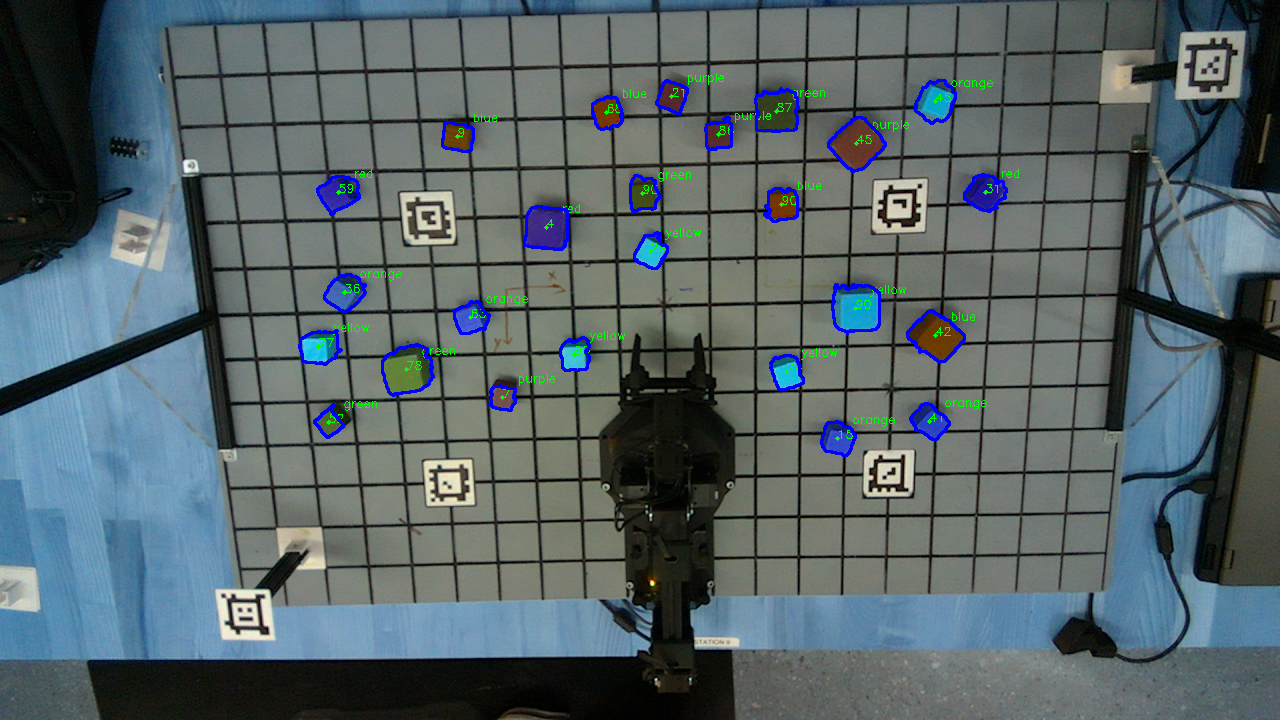
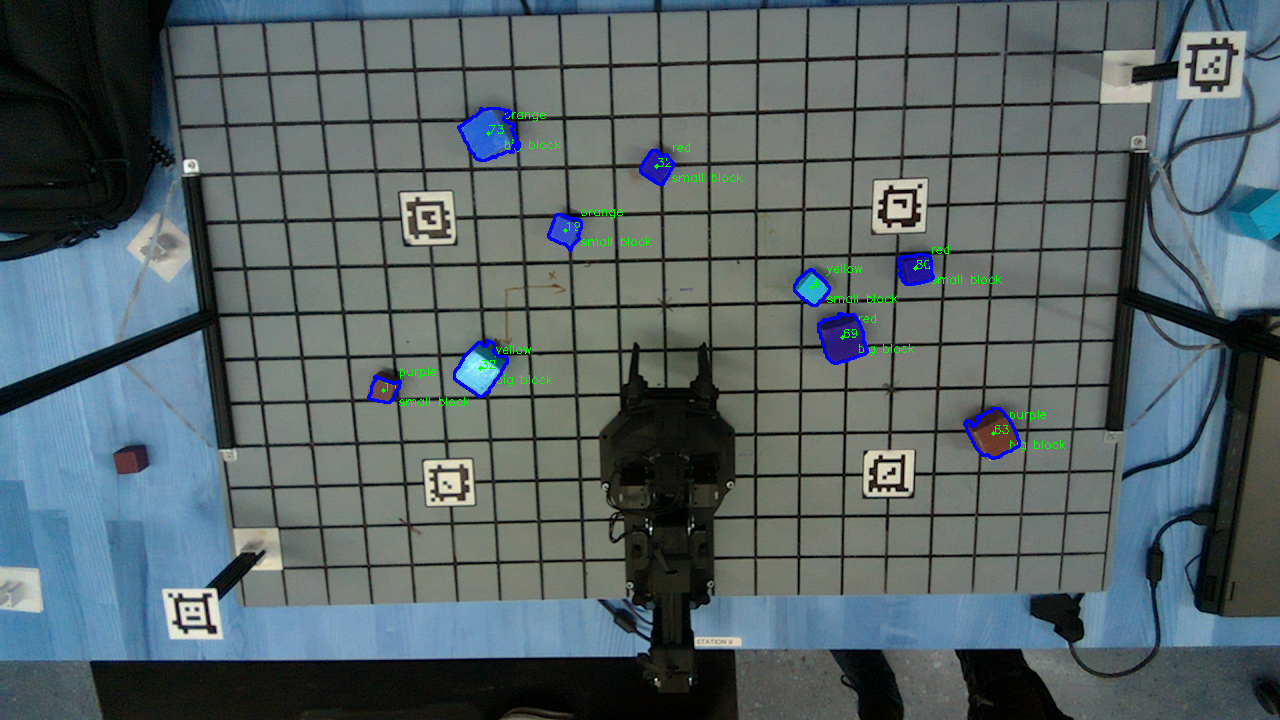
task 1 complete

diff --git a/src/state_machine.py b/src/state_machine.py
@@ -305,8 +305,8 @@ class StateMachine():
         @brief    calculate the moving time and accelerate time of motion 
         """
         displacement = np.array(target_joint) - self.rxarm.get_positions()
-        angular_v = np.ones(displacement.shape) * (np.pi / 4)
-        angular_v[0] = np.pi/5
+        angular_v = np.ones(displacement.shape) * (np.pi / 3)
+        angular_v[0] = np.pi/4
         angular_t = np.abs(displacement) / angular_v
         move_time = np.max(angular_t)
         if move_time < 0.4:
@@ -484,6 +484,7 @@ class StateMachine():
                     return True,joint_angles
                 if correction_counter > 5:
                     print("Pose Compute: Failure Can not even reach corrected Pose")
+                    print("Pose Compute: The point that cannot reach is: ", [x,y,z])
                     return False,[0,0,0,0,0]
     
     
@@ -587,7 +588,7 @@ class StateMachine():
             temp_joint = np.array(joint_angles1)
             last_effort = self.rxarm.get_efforts()       
           
-            for i in range(10):
+            for i in range(4):
                 displacement_unit = displacement_unit / 2
                 temp_joint = temp_joint + displacement_unit
                 move_time,ac_time = self.calMoveTime(temp_joint)
@@ -619,10 +620,10 @@ class StateMachine():
                                            blocking = True)
             print("Auto Pick: Reach Pos3")
             print("Auto Pick: Success")
-            time.sleep(0.5)
+            time.sleep(0.1)
         else:
             print("Auto Pick: Unreachable Position!")
-            time.sleep(0.5)
+            time.sleep(0.1)
 
 
 
@@ -701,11 +702,11 @@ class StateMachine():
                                            accel_time = ac_time,
                                            blocking = True)
             print("Auto Place: Reach Pos3")
-            time.sleep(0.5)
+            time.sleep(0.2)
             print("Auto Place: Success")
         else:
             print("Auto Place: Unreachable Position!")
-            time.sleep(0.5)
+            time.sleep(0.2)
 
     
     def kinematics_motion_test(self):
@@ -800,56 +801,11 @@ class StateMachine():
         self.next_state = "idle"
 
 
-    # # Event 1:Pick'n sort!
-    # def pick_n_sort(self):
-    #     self.current_state = "pick_n_sort"
-    #     self.next_state = "idle"
-    #     # Detect blocks in the plane
-    # self.camera.blocks = detectBlocksInRGBImage(self.camera.VideoFrame.copy(), self.camera.DepthFrameRaw,boundary=self.camera.boundary)
-
-    #     while self.camera.blocks == None:
-    #         print("There is no blocks in the workspace!!")
-    #         time.sleep(1)
-
-    #     # Initialize place positions - x coordinates
-    #     small_x , big_x = -150,150
-    #     self.initialize_rxarm()
-
-    #     for block in self.camera.blocks:
-    #         block_center, block_orientation = self.camera.transformFromImageToWorldFrame((block.center[1], block.center[0])),block.orientation 
-    #         # print(block_center,block.side)
-    #         if block_center[2] < 50: 
-    #             # Move small blocks in right plane to left plane
-    #             if block.side <= 25:
-    #                 if block_center[0] >= 0 or block_center[1] >= 0:
-    #                     print("=========== Small")
-    #                     print(block_center)
-    #                     print("===========")
-    #                     self.auto_pick(target_pos=block_center,block_ori = block_orientation)
-    #                     time.sleep(1)
-    #                     self.auto_place(target_pos=[small_x,-100,0],target_orientation = 0)
-    #                     small_x -= 60
-    #             # Move big blocks in left plane to right plane
-    #             elif block.side >= 35:
-    #                 if block_center[0] <= 0 or block_center[1] >= 0:
-    #                     print("+++++++++++ Big")
-    #                     print(block_center)
-    #                     print("+++++++++++")
-    #                     self.auto_pick(target_pos=block_center,block_ori = block_orientation)
-    #                     time.sleep(1)
-    #                     self.auto_place(target_pos=[big_x,-100,0],target_orientation = 0)
-    #                     big_x += 60
-    #         time.sleep(0.5)
-    #         self.initialize_rxarm()
-    #         time.sleep(1)
-    #         # self.safe_pos()
-    #     print("Pick 'n sort finished")    
-
-
     # Event 1:Pick'n sort!
     def pick_n_sort(self):
         self.current_state = "pick_n_sort"
         self.next_state = "idle"
+        print("##################### Pick 'n sort Start #####################")
         # Detect blocks in the plane
         self.camera.blocks = detectBlocksInRGBImage(self.camera.VideoFrame.copy(), self.camera.DepthFrameRaw,boundary=self.camera.boundary)
 
@@ -859,25 +815,26 @@ class StateMachine():
 
         # Initialize place positions - x coordinates
         small_x , big_x = -150,150
-        small_y,big_y = -100
-        small_counter,big_counter = 0
+        small_y,big_y = -100,-100
+        small_counter,big_counter = 0,0
         self.initialize_rxarm()
 
         for block in self.camera.blocks:
             block_center, block_orientation = self.camera.transformFromImageToWorldFrame((block.center[1], block.center[0])),block.orientation 
+            print("block_depth", block_center[2])
             # print(block_center,block.side)
-            if block_center[2] < 50: 
+            if block_center[2] < 100: 
                 print("--------------------- start a block ---------------------------")
                 # Move small blocks in right plane to left plane
                 if block.side <= 25:
                     if block_center[0] >= 0 or block_center[1] >= 0:
                         print("=========== Small ",block_center," =============")
                         self.auto_pick(target_pos=block_center,block_ori = block_orientation)
-                        time.sleep(1)
+                        time.sleep(0.2)
                         self.initialize_rxarm(task=True)
-                        time.sleep(2)
+                        time.sleep(0.2)
                         print("Reach Middle Point")
-                        time.sleep(0.1)
+                        time.sleep(0.2)
                         
                         # compute the place position
                         if small_counter % 2 ==0:
@@ -893,11 +850,11 @@ class StateMachine():
                     if block_center[0] <= 0 or block_center[1] >= 0:
                         print("=========== Big ",block_center," =============")
                         self.auto_pick(target_pos=block_center,block_ori = block_orientation)
-                        time.sleep(1)
+                        time.sleep(0.2)
                         self.initialize_rxarm(task=True)
-                        time.sleep(2)
+                        time.sleep(0.2)
                         print("Reach Middle Point")
-                        time.sleep(0.1)
+                        time.sleep(0.2)
 
                         # compute the place position
                         if big_counter % 2 ==0:
@@ -908,11 +865,14 @@ class StateMachine():
 
                         self.auto_place(target_pos=[big_x,big_y,0],target_orientation = 0)
                         big_counter +=1
-            time.sleep(0.5)
-            self.initialize_rxarm()
-            time.sleep(1)
-            print("--------------------- end a block ---------------------------")
-            # self.safe_pos()
+                time.sleep(0.2)
+                self.initialize_rxarm()
+                time.sleep(0.5)
+                print("--------------------- end a block ---------------------------")
+                # self.safe_pos()
+            else:
+                print("This is April Tag!")
+
         print("##################### Pick 'n sort finished #####################")    
 
 

diff --git a/src/camera.py b/src/camera.py
@@ -72,7 +72,7 @@ class Camera():
         self.grid_y_points = np.arange(-175, 525, 50)
         self.grid_points = np.array(np.meshgrid(self.grid_x_points, self.grid_y_points))
         self.tag_detections = np.array([])
-        self.tag_locations_3D = [[-250, -25, 0],[250, -25, 0],[250, 275, 0],[-250, 275, 0], [-425,-100,150], [475,400,150]]
+        self.tag_locations_3D = [[-250, -25, 0],[250, -25, 0],[250, 275, 0],[-250, 275, 0], [-475,-100,150], [475,400,150]]
         self.tag_locations_2D = [[400, 550], [900, 550], [900, 250], [400, 250]]
 
         """ block info """
@@ -257,13 +257,15 @@ class Camera():
             print(image_points.shape)
             return None
         elif image_points.shape[0] >= 4 and world_points.shape[0] >= 4:
-            is_empty = np.all(self.transformation_matrix == 0)
-            if is_empty:
-                self.transformation_matrix = cv2.getPerspectiveTransform(image_points, world_points)
-                print("===========================================")
-                print("Transformation matrix:")
-                print(self.transformation_matrix)
-                print("===========================================")
+            # is_empty = np.all(self.transformation_matrix == 0)
+            # if is_empty:
+            #     self.transformation_matrix = cv2.getPerspectiveTransform(image_points, world_points)
+            #     print("===========================================")
+            #     print("Transformation matrix:")
+            #     print(self.transformation_matrix)
+            #     print("===========================================")
+            self.transformation_matrix = cv2.getPerspectiveTransform(image_points, world_points)
+
             if self.cameraCalibrated == True and self.boundary == []:
                 self.boundary.append(self.inv_affline_transformation([[200, 75],[200, 700],[1100, 700],[1100, 75]]))
                 self.boundary.append(self.inv_affline_transformation([[570, 365],[570, 700],[735, 700],[735, 365]]))
@@ -457,6 +459,7 @@ class JBCalibrateListener(Node):
 
     def callback(self, msg):
         if msg.data == 1:
+            self.camera.cameraCalibrated = False
             self.camera.calibrateFromAprilTag(msg)
 
 

diff --git a/src/block_detection.py b/src/block_detection.py
@@ -361,6 +361,10 @@ def drawblock(blocks, output_img:np.array, boundary = None, new:bool = False) ->
             cv2.putText(output_img, str(color), (center[0] + 15, center[1] - 15), font, 0.4, (0,255,0), thickness=1)
             cv2.circle(output_img, (center[0], center[1]), 2, (0,255,0), -1)
             cv2.putText(output_img, str(int(np.rad2deg(orientation))), (center[0], center[1]), font, 0.4, (0,255,0), thickness=1)
+            if block.side > 30:
+                cv2.putText(output_img, "big block", (center[0] + 15, center[1] + 15), font, 0.4, (0,255,0), thickness=1)
+            else:
+                cv2.putText(output_img, "small block", (center[0] + 15, center[1] + 15), font, 0.4, (0,255,0), thickness=1)
             cv2.drawContours(output_img, [block.contour], -1, (255,0,0), 2)
     
     if boundary != None:
@@ -544,7 +548,7 @@ def detectBlocksInRGBImage(bgr_img, depth_raw, boundary):
         if count <= 3:
             continue
 
-        if M["m00"] < 850:
+        if M["m00"] < 1000:
             side = 20
         else:
             side = 40

diff --git a/src/kinematics.py b/src/kinematics.py
@@ -238,7 +238,7 @@ def IK_geometric(pose,  block_ori=None, isVertical_Pick=False):
     if block_ori !=None:
         block_ori = np.pi/2 - block_ori
 
-    if z < 0:
+    if z < -20:
         print("[Target Pose Error] Manipulator cannot touch the plane")
         return False,[0,0,0,0,0]
     
@@ -313,6 +313,9 @@ def IK_geometric(pose,  block_ori=None, isVertical_Pick=False):
     # print("Success! The joint angles are: ", np.rad2deg(theta1), ", ", np.rad2deg(theta2), ", ", np.rad2deg(theta3), ", ", np.rad2deg(theta4), ", ", np.rad2deg(theta5), ", ")
     # print("Success! The joint angles(deg) are: ", theta1, ", ", theta2, ", ", theta3, ", ", theta4, ", ", theta5)
     print("IK_Kinematics: Success")
+
+    # Compensation for joint1 (don't know why)
+    theta1 = theta1 - np.pi/180
     return True, [theta1,theta2,theta3,theta4,theta5]
     pass
 
